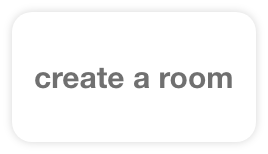
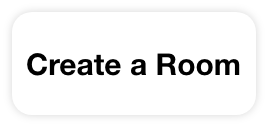
image

Changed region(s): [[0.0896, 0.4016, 0.8955, 0.6142]]

diff --git a/home2.html b/home2.html
@@ -23,10 +23,10 @@
   <div class="content">
     <image src="logo.png" style=" margin-top:120px;">
     <a href="createroom.html">
-      <image src="Current.png" style="margin-top:20px;">
+      <image src="create.png" style="margin-top:20px;">
     </a>
     <a href="enterroom.html">
-      <image src="Enter.png"  style="margin-top:20px;">
+      <image src="enter.png"  style="margin-top:20px;">
     </a>
     <a href="core.html">
       <image src="currentgame.png"  style="margin-top:20px;">
